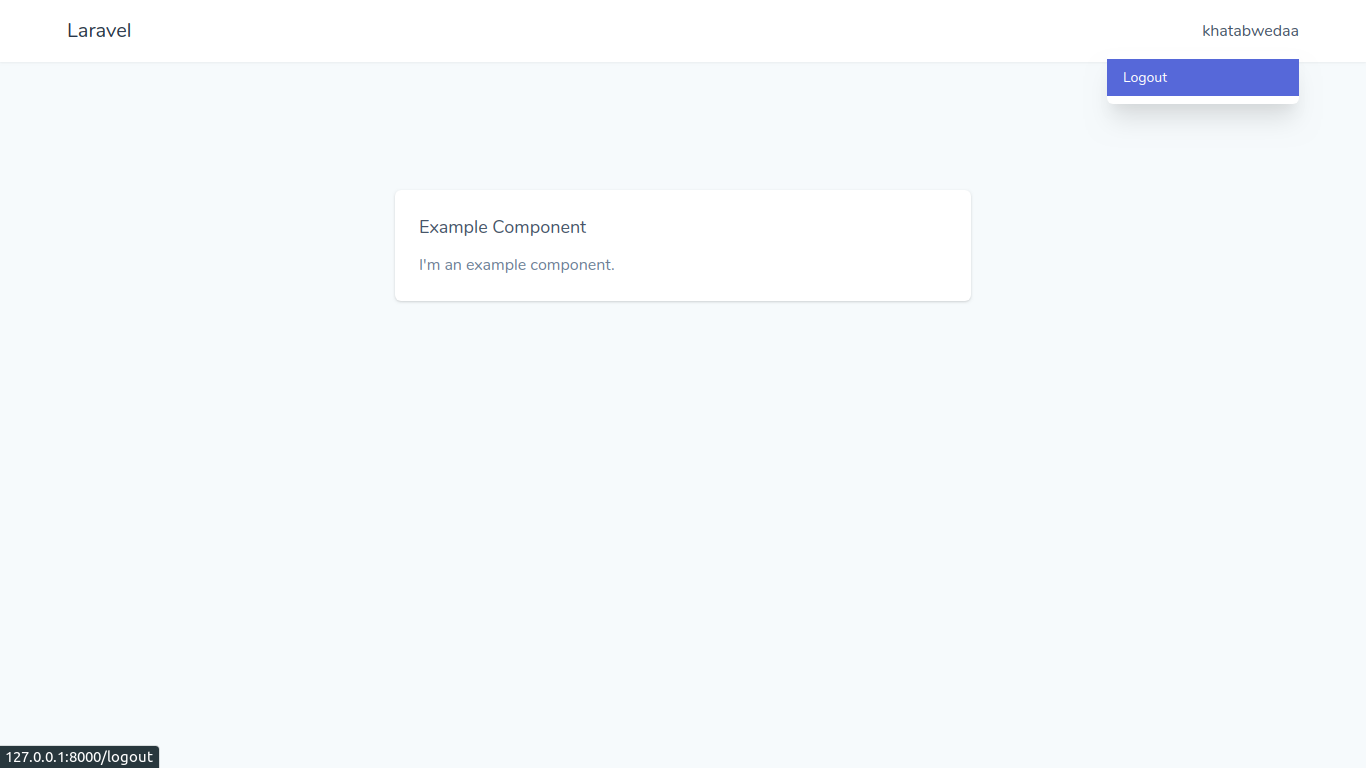
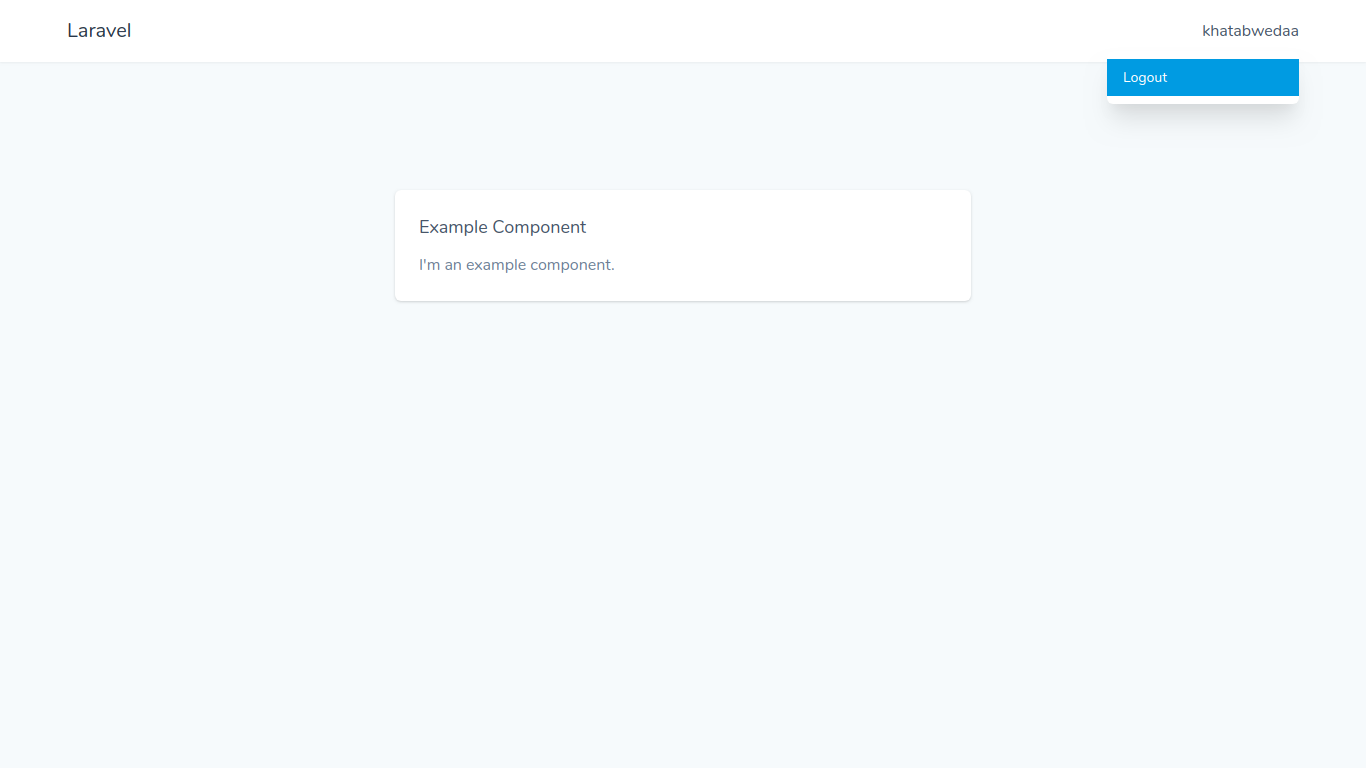
Fix dropdown hover color

Changed region(s): [[0.7994, 0.0625, 0.9531, 0.125], [0.0, 0.9688, 0.123, 1.0]]

diff --git a/src/stubs/resources/views/layouts/app.blade.php b/src/stubs/resources/views/layouts/app.blade.php
@@ -40,7 +40,7 @@
                             <div v-if="dropdownOpen" @click="dropdownOpen = false" class="fixed inset-0 h-full w-full z-10"></div>
 
                             <div v-if="dropdownOpen" class="absolute right-0 mt-2 py-2 w-48 bg-white rounded-md shadow-xl z-20">
-                                <a href="{{ route('logout') }}"  class="block px-4 py-2 text-sm text-gray-700 hover:bg-indigo-600 hover:text-white" 
+                                <a href="{{ route('logout') }}"  class="block px-4 py-2 text-sm text-gray-700 hover:bg-blue-500 hover:text-white" 
                                     onclick="event.preventDefault();
                                     document.getElementById('logout-form').submit();">
                                     {{ __('Logout') }}
